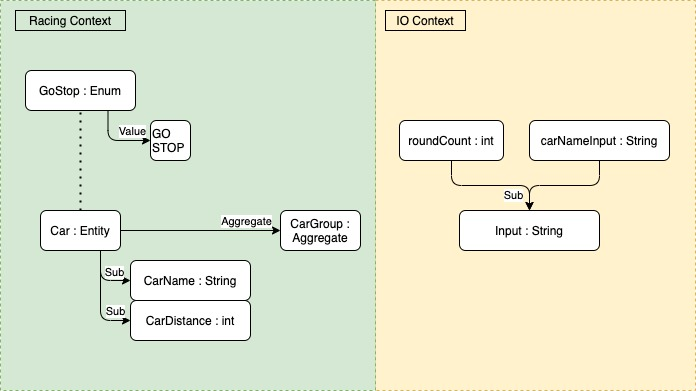
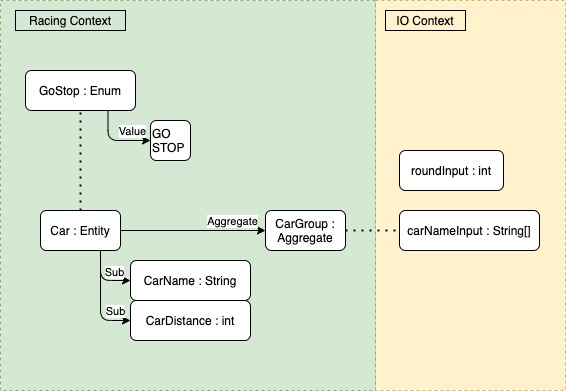
feat: #8 Input Value Object(CarName, Round) 추가, fix: #8 자동차 그룹 생성 시 파라메터 변경, docs: #8 TODO List 수정, DDD 설계도 수정
Input Value Object(CarName, Round) 추가
- CarNameInput.java
  -- 자동차 이름 길이 체크 (1~5 사이의 문자열 값)
- RoundInput.java
  -- 라운드 반복 횟수 체크 (숫자 체크, 1회 이상 체크)

자동차 그룹(애그리게이트) 수정
- 그룹 생성 시 파라메터 변경 : String -> String[]

TODO List 수정
- 현재까지 진행사항 수정

DDD 설계도 수정
- IO Context : value object와 entity의 구분이 명확하지 않아 value object로서 변경함

Resolves:
See also:

diff --git a/src/test/java/domain/value/RoundInputTest.java b/src/test/java/domain/value/RoundInputTest.java
@@ -1,0 +1,41 @@
+package domain.value;
+
+import static org.assertj.core.api.Assertions.*;
+
+import org.junit.jupiter.api.DisplayName;
+import org.junit.jupiter.api.MethodOrderer;
+import org.junit.jupiter.api.Order;
+import org.junit.jupiter.api.TestMethodOrder;
+import org.junit.jupiter.params.ParameterizedTest;
+import org.junit.jupiter.params.provider.CsvSource;
+
+import exception.IllegalRoundInputException;
+
+@TestMethodOrder(MethodOrderer.OrderAnnotation.class)
+public class RoundInputTest {
+
+	@DisplayName("라운드_숫자_반환")
+	@ParameterizedTest(name = "{index} - 입력값 : {0}")
+	@Order(1)
+	@CsvSource(value = {"1;1", "5;5", "10;10", "99999999;99999999"}, delimiter = ';')
+	public void generateRoundInput(String input, int expectedValue) throws IllegalRoundInputException {
+		RoundInput actualValue = RoundInput.generate(input);
+		assertThat(actualValue.getRound()).isEqualTo(expectedValue);
+	}
+
+	@DisplayName("라운드_숫자_반환_실패_1보다_작은_숫자")
+	@ParameterizedTest(name = "{index} - 입력값 : {0}")
+	@Order(2)
+	@CsvSource(value = {"-99999999", "-1", "0"}, delimiter = ';')
+	public void generateRoundInputFail(String input) {
+		assertThatThrownBy(() -> RoundInput.generate(input)).isInstanceOf(IllegalRoundInputException.class);
+	}
+
+	@DisplayName("라운드_숫자_반환_실패_문자")
+	@ParameterizedTest(name = "{index} - 입력값 : {0}")
+	@Order(3)
+	@CsvSource(value = {"ABCDEFG", "가나다라마바사", "a1s2d3f4"}, delimiter = ';')
+	public void generateRoundInputFailWithCharacter(String input) {
+		assertThatThrownBy(() -> RoundInput.generate(input)).isInstanceOf(NumberFormatException.class);
+	}
+}

diff --git a/src/test/java/domain/value/CarNameInputTest.java b/src/test/java/domain/value/CarNameInputTest.java
@@ -1,0 +1,34 @@
+package domain.value;
+
+import static org.assertj.core.api.Assertions.*;
+
+import org.junit.jupiter.api.DisplayName;
+import org.junit.jupiter.api.MethodOrderer;
+import org.junit.jupiter.api.Order;
+import org.junit.jupiter.api.TestMethodOrder;
+import org.junit.jupiter.params.ParameterizedTest;
+import org.junit.jupiter.params.provider.CsvSource;
+
+import exception.IllegalCarNameException;
+
+@TestMethodOrder(MethodOrderer.OrderAnnotation.class)
+public class CarNameInputTest {
+
+	@DisplayName("자동차_이름_입력값_배열로_반환")
+	@ParameterizedTest(name = "{index} - 입력값 : {0}, 배열 예상 길이 : {1}")
+	@Order(1)
+	@CsvSource(value = {"A,AB,ABC,ABCD,ACBDE;5", "A,AB,ABC,ABCD,ACBDE,가,가나,가나다,가나다라,가나다라마;10"}, delimiter = ';')
+	public void validateInput(String input, int size) throws IllegalCarNameException {
+		CarNameInput carNameInput = CarNameInput.generate(input);
+		assertThat(carNameInput.getCarNames().length).isEqualTo(size);
+	}
+
+	@DisplayName("자동차_이름_입력값_배열로_반환_실패")
+	@ParameterizedTest(name = "{index} - 입력값 : {0}")
+	@Order(2)
+	@CsvSource(value = {",A,AB,ABC,ABCD,ACBDE", "A,AB,ABC,ABCD,ACBDE,ABCDEF", ",가,가나,가나다,가나다라,가나다라마",
+		"가,가나,가나다,가나다라,가나다라마,가나다라마바", "가|가나|가나다|가나다라|가나다라마|가나다라마바"}, delimiter = ';')
+	public void validateInputResultFail(String input) {
+		assertThatThrownBy(() -> CarNameInput.generate(input)).isInstanceOf(IllegalCarNameException.class);
+	}
+}

diff --git a/src/main/java/domain/value/CarNameInput.java b/src/main/java/domain/value/CarNameInput.java
@@ -1,0 +1,48 @@
+package domain.value;
+
+import exception.IllegalCarNameException;
+
+public class CarNameInput {
+	private String[] carNames;
+
+	public static CarNameInput generate(String input) throws IllegalCarNameException {
+		CarNameInput carNameInput = new CarNameInput();
+		String[] tempCarNames = input.split(",");
+		validateCarNameLengthUnder1(tempCarNames);
+		validateCarNameLengthOver5(tempCarNames);
+		carNameInput.setCarNames(tempCarNames);
+		return carNameInput;
+	}
+
+	private static void validateCarNameLengthOver5(String[] tempCarNames) throws IllegalCarNameException {
+		for (String carName : tempCarNames) {
+			checkCarNameOverLength5(carName);
+		}
+	}
+
+	private static void checkCarNameOverLength5(String carName) throws IllegalCarNameException {
+		if (5 < carName.length()) {
+			throw new IllegalCarNameException("자동차 이름은 6자 이하이어야 합니다. 자동차 이름은 ',(comma)'로 구분합니다.");
+		}
+	}
+
+	private static void validateCarNameLengthUnder1(String[] tempCarNames) throws IllegalCarNameException {
+		for (String carName : tempCarNames) {
+			checkCarNameUnderLength1(carName);
+		}
+	}
+
+	private static void checkCarNameUnderLength1(String carName) throws IllegalCarNameException {
+		if (carName.length() < 1) {
+			throw new IllegalCarNameException("자동차 이름은 반드시 필요합니다.");
+		}
+	}
+
+	private void setCarNames(String[] tempCarNames) {
+		this.carNames = tempCarNames;
+	}
+
+	public String[] getCarNames() {
+		return this.carNames;
+	}
+}

diff --git a/src/test/java/domain/aggregate/CarGroupTest.java b/src/test/java/domain/aggregate/CarGroupTest.java
@@ -6,21 +6,24 @@ import java.util.List;
 
 import org.junit.jupiter.api.BeforeEach;
 import org.junit.jupiter.api.DisplayName;
+import org.junit.jupiter.api.MethodOrderer;
 import org.junit.jupiter.api.Order;
 import org.junit.jupiter.api.Test;
+import org.junit.jupiter.api.TestMethodOrder;
 import org.junit.jupiter.params.ParameterizedTest;
 import org.junit.jupiter.params.provider.CsvSource;
 
 import domain.entity.Car;
 import exception.IllegalCarNameException;
 
+@TestMethodOrder(MethodOrderer.OrderAnnotation.class)
 public class CarGroupTest {
 
 	private CarGroup preparedCarGroup;
 
 	@BeforeEach
 	void setUp() throws IllegalCarNameException {
-		this.preparedCarGroup = CarGroup.generate("pobi,crong,honux");
+		this.preparedCarGroup = CarGroup.generate("pobi,crong,honux".split(","));
 		List<Car> cars = this.preparedCarGroup.getCars();
 		cars.get(0).getDistance().increase().increase().increase().increase().increase();
 		cars.get(1).getDistance().increase().increase().increase().increase();
@@ -32,7 +35,7 @@ public class CarGroupTest {
 	@Order(1)
 	@CsvSource(value = {"A,AB,ABC,ABCD,ACBDE;5", "A,AB,ABC,ABCD,ACBDE,가,가나,가나다,가나다라,가나다라마;10"}, delimiter = ';')
 	public void generateCarGroup(String carGroupStr, int expectedSize) throws IllegalCarNameException {
-		CarGroup carGroup = CarGroup.generate(carGroupStr);
+		CarGroup carGroup = CarGroup.generate(carGroupStr.split(","));
 		assertThat(carGroup.size()).isEqualTo(expectedSize);
 	}
 

diff --git a/src/test/java/domain/entity/CarTest.java b/src/test/java/domain/entity/CarTest.java
@@ -88,15 +88,16 @@ public class CarTest {
 	@ParameterizedTest(name = "{index} - 이름A : {0}, 이름B : {1}, 거리A : {2}, 거리B : {3}, 예상결과 : {4}")
 	@Order(7)
 	@CsvSource(value = {"A;가;1;2;-1", "AB;가나;2;2;0", "ABC;가나다;3;2;1"}, delimiter = ';')
-	public void carCompareTo(String carNameA, String carNameB, int carADistance, int carBDistance, int expectedResult) throws IllegalCarNameException {
+	public void carCompareTo(String carNameA, String carNameB, int carADistance, int carBDistance,
+		int expectedResult) throws IllegalCarNameException {
 		Car carA = new Car(carNameA);
-		for(; 0 < carADistance; carADistance--) {
+		for (; 0 < carADistance; carADistance--) {
 			carA.calculateDistance(GoStopCode.GO);
 		}
 		System.out.println(carA.makeMsg());
 
 		Car carB = new Car(carNameB);
-		for(; 0 < carBDistance; carBDistance--) {
+		for (; 0 < carBDistance; carBDistance--) {
 			carB.calculateDistance(GoStopCode.GO);
 		}
 		System.out.println(carB.makeMsg());

diff --git a/src/main/java/domain/value/RoundInput.java b/src/main/java/domain/value/RoundInput.java
@@ -1,0 +1,37 @@
+package domain.value;
+
+import exception.IllegalRoundInputException;
+
+public class RoundInput {
+	private int round;
+
+	public void setRound(int round) {
+		this.round = round;
+	}
+
+	public int getRound() {
+		return round;
+	}
+
+	public static RoundInput generate(String input) throws IllegalRoundInputException {
+		RoundInput roundInput = new RoundInput();
+		int round = parseInt(input);
+		validateRound(round);
+		roundInput.setRound(round);
+		return roundInput;
+	}
+
+	private static void validateRound(int round) throws IllegalRoundInputException {
+		if (round < 1) {
+			throw new IllegalRoundInputException("라운드 횟수는 1회 이상으로 입력해 주세요.");
+		}
+	}
+
+	private static int parseInt(String input) {
+		try {
+			return Integer.parseInt(input);
+		} catch(NumberFormatException e) {
+			throw new NumberFormatException("라운드 횟수는 1 ~ Integer.MAX_VALUE 사이 자연수로 입력해주세요.");
+		}
+	}
+}

diff --git a/src/main/java/domain/aggregate/CarGroup.java b/src/main/java/domain/aggregate/CarGroup.java
@@ -9,8 +9,7 @@ import exception.IllegalCarNameException;
 public class CarGroup {
 	private List<Car> cars = new ArrayList<>();
 
-	public static CarGroup generate(String carGroupStr) throws IllegalCarNameException {
-		String[] carNames = carGroupStr.split(",");
+	public static CarGroup generate(String[] carNames) throws IllegalCarNameException {
 		CarGroup carGroup = CarGroup.generate();
 		for (String carName : carNames) {
 			carGroup.getCars().add(new Car(carName));
@@ -67,7 +66,7 @@ public class CarGroup {
 		StringBuilder msg = new StringBuilder();
 		for (int i = 0; i < winners.size(); i++) {
 			String winnerName = winners.get(i).getCarName().getName();
-			msg.append((i == winners.size()-1) ? winnerName : winnerName + ", ");
+			msg.append((i == winners.size() - 1) ? winnerName : winnerName + ", ");
 		}
 		msg.append("가 최종 우승했습니다.");
 		return msg.toString();

diff --git a/src/main/java/exception/IllegalRoundInputException.java b/src/main/java/exception/IllegalRoundInputException.java
@@ -1,0 +1,7 @@
+package exception;
+
+public class IllegalRoundInputException extends Throwable {
+	public IllegalRoundInputException(String msg) {
+		super(msg);
+	}
+}

diff --git a/README.md b/README.md
@@ -34,7 +34,7 @@
 |• 주어진 횟수 동안 n대의 자동차는 전진 또는 멈출 수 있다.|[x] 전진, 멈춤 Enum<br>[x] 자동차들 일급콜렉션||
 |• 각 자동차에 이름을 부여할 수 있다. 전진하는 자동차를 출력할 때 자동차 이름을 같이 출력한다.|[x] 자동차 클래스<br>[x] 자동차 - 이름, 전진거리 필드<br>[x] '자동차 이름 : 전진거리'출력||
 |• 자동차 이름은 쉼표(,)를 기준으로 구분하며 이름은 5자 이하만 가능하다.|[x] 이름은 5자 이하 true, false|[ ] 6자 이상인 경우<br> 다시 입력 요청 |
-|• 사용자는 몇 번의 이동을 할 것인지를 입력할 수 있어야 한다.|[ ] 숫자 이외 입력 예외처리|[ ] 숫자 범위 체크 (0 ~ ?)|
+|• 사용자는 몇 번의 이동을 할 것인지를 입력할 수 있어야 한다.|[x] 숫자 이외 입력 예외처리|[x] 숫자 범위 체크 (0 ~ MaxInt)|
 |• 전진하는 조건은 0에서 9 사이에서 random 값을 구한 후<br>random 값이 4 이상일 경우 전진하고, 3 이하의 값이면 멈춘다.|[x] random 구하기(0 ~ 9)<br>[x] 4 이상 : 전진, 3 이하 :멈춤||
 |• 자동차 경주 게임을 완료한 후 누가 우승했는지를 알려준다. 우승자는 한 명 이상일 수 있다.|[x] 우승자 찾기<br>[x] 우승자 출력|일급콜렉션 내 메소드로 구현(O)|
 
@@ -135,11 +135,10 @@ pobi, honux가 최종 우승했습니다.
     - [x] 4-1-2. 자동차가 간 거리 클래스
     - [x] 4-1-3. 
     - [x] 4-1-4. 자동차 엔티티
-    - [x] 4-1-5.자동차들 일급컬렉션
-  - [ ] 4-2.IO 컨텍스트
-    - [ ] 4-2-1. input object value
-    - [ ] 4-2-2. carNameInput object value
-    - [ ] 4-2-3. roundCount object value
+    - [x] 4-1-5. 자동차들 일급컬렉션
+  - [x] 4-2.IO 컨텍스트
+    - [x] 4-2-1. carNameInput object value
+    - [x] 4-2-2. roundCount object value
   - [ ] 4-3.IO
   - [ ] 4-4.UI
 - [ ] 5.테스트
